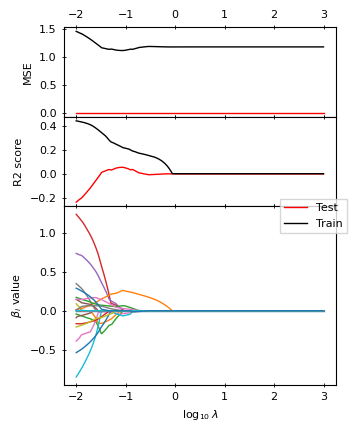
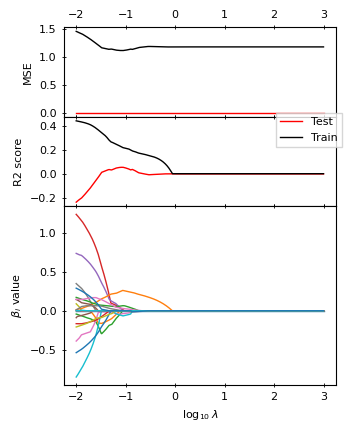
Added figure legend

Changed region(s): [[0.7812, 0.2407, 0.9688, 0.3611], [0.7812, 0.4514, 1.0, 0.5417]]

diff --git a/project1/src.py b/project1/src.py
@@ -256,7 +256,7 @@ class Regression:
         ax[3].xaxis.set_tick_params(top=True, labeltop=False, bottom=True, labelbottom=True)
         ax[3].set_xlabel(x_label)
 
-        fig.legend(loc='center right', handles=[line1, line2])
+        fig.legend(handles=[line1, line2], bbox_to_anchor=(1, 0.75))
         fig.tight_layout()
         fig.savefig('figures/' + model + '_' + figname + '.pdf', bbox_inches='tight')
         fig.savefig('figures/' + model + '_' + figname + '.png', bbox_inches='tight')
